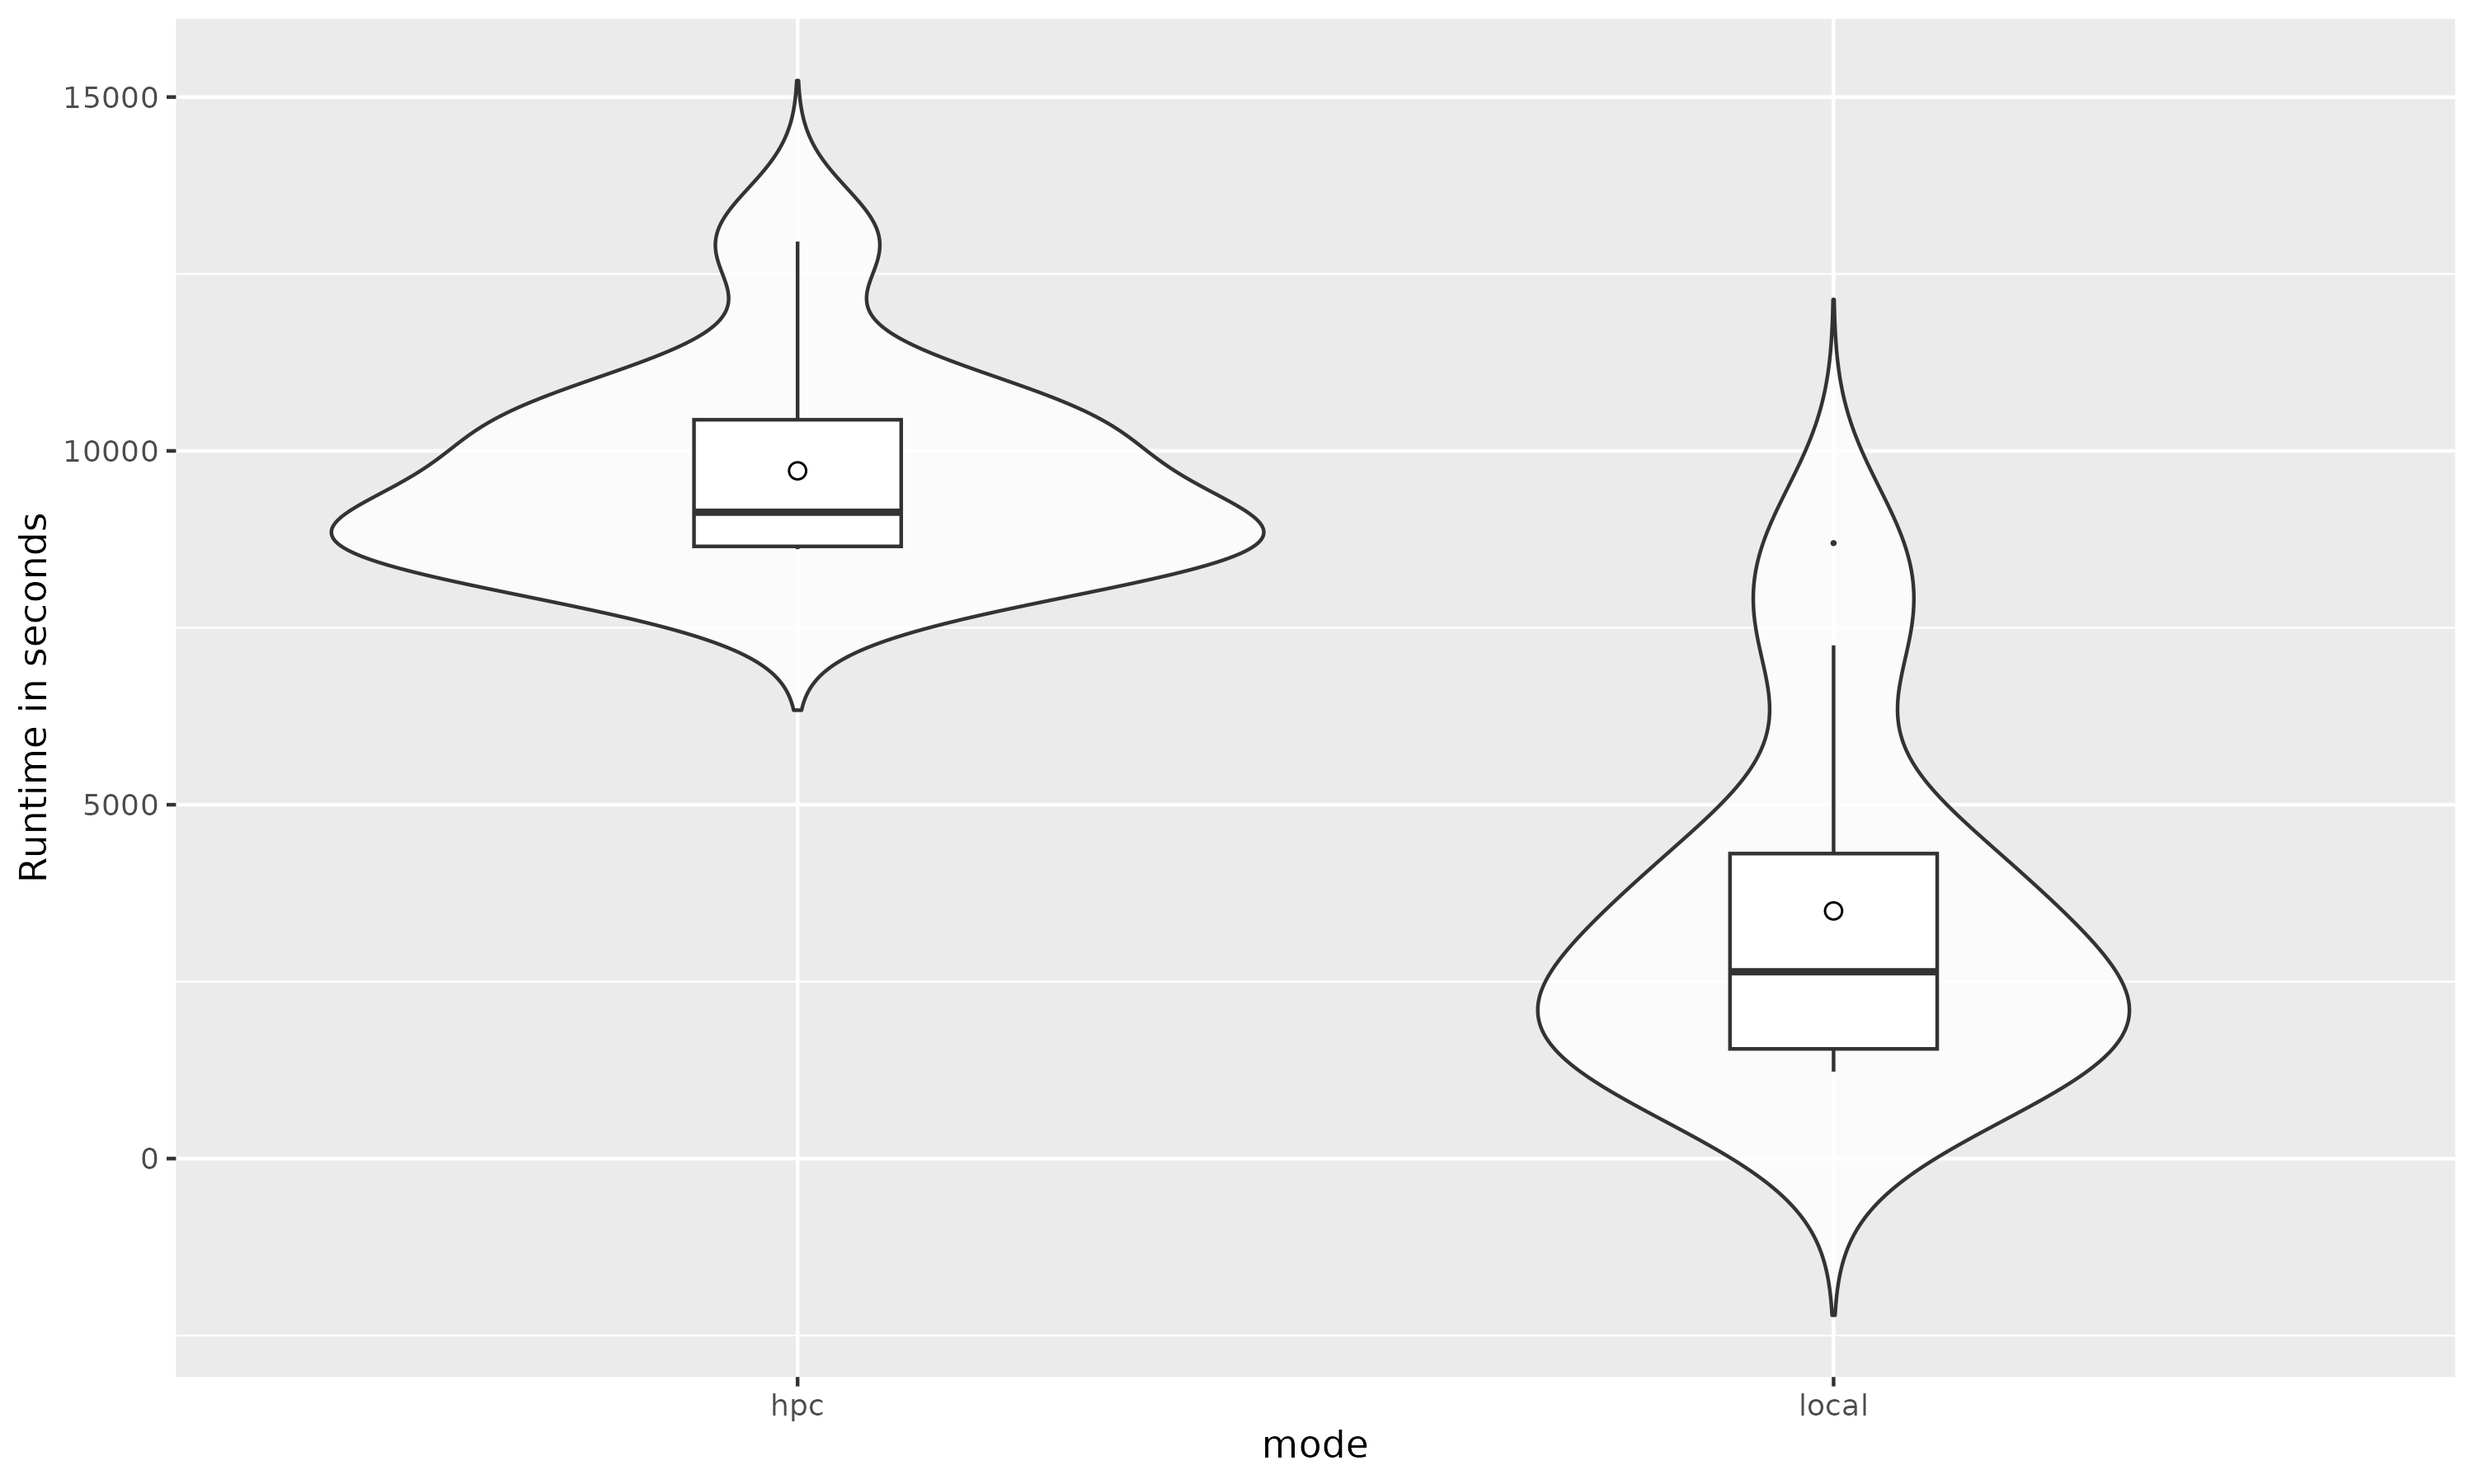
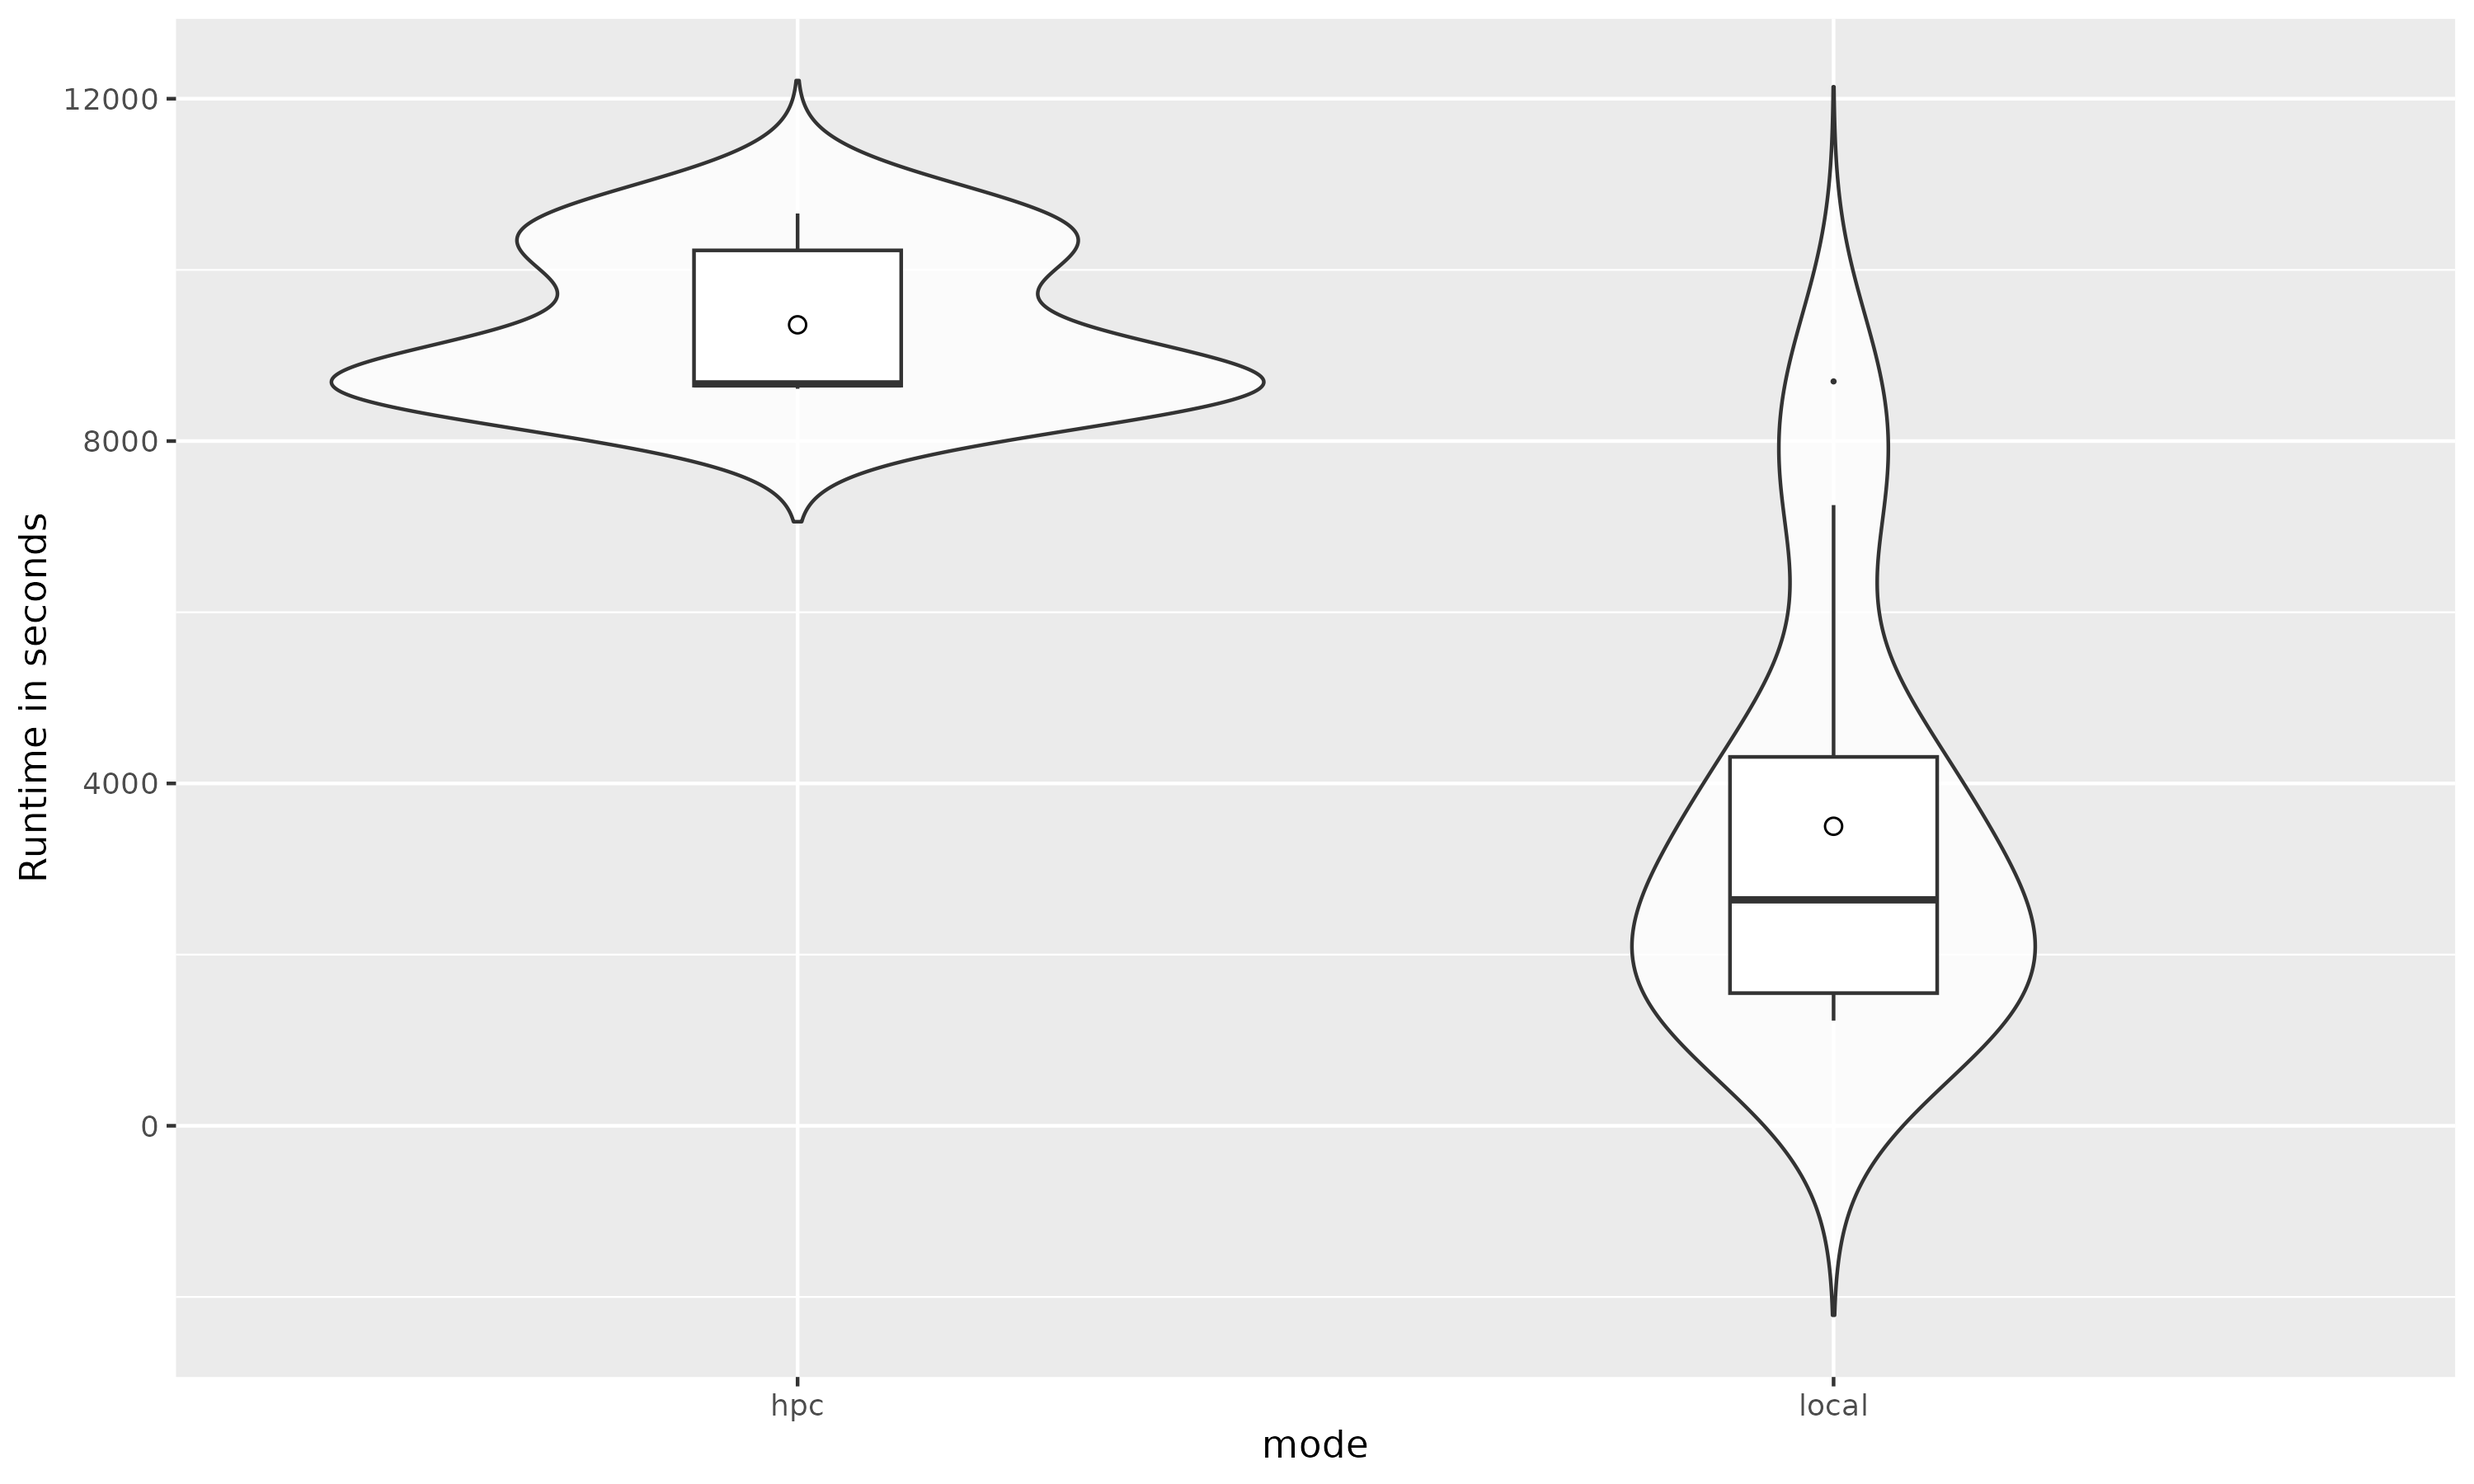
Corrected Friedman test.

diff --git a/tables/summary_memory_hpc_local.tex b/tables/summary_memory_hpc_local.tex
@@ -1,12 +1,12 @@
 % latex table generated in R 4.3.1 by xtable 1.8-4 package
-% Fri Oct 27 10:28:38 2023
+% Fri Oct 27 13:19:55 2023
 \begin{table}[ht]
 \centering
 \begin{tabular}{rlrrrrrrr}
   \hline
  & mode & n & Min. & Max. & Median & Mean & SD & CV \\ 
   \hline
-1 & hpc &  10 & 5670560000.00 & 5682912000.00 & 5672592000.00 & 5675891200.00 & 5068209.17 & 0.09 \\ 
+1 & hpc &   9 & 5670560000.00 & 5682912000.00 & 5672576000.00 & 5675114666.67 & 4702530.38 & 0.08 \\ 
   2 & local &  11 & 9675352000.00 & 193712632000.00 & 50560204000.00 & 71951059636.36 & 67356507125.55 & 93.61 \\ 
    \hline
 \end{tabular}

diff --git a/tables/summary_runtime_hpc_local.tex b/tables/summary_runtime_hpc_local.tex
@@ -1,12 +1,12 @@
 % latex table generated in R 4.3.1 by xtable 1.8-4 package
-% Fri Oct 27 10:28:37 2023
+% Fri Oct 27 13:19:50 2023
 \begin{table}[ht]
 \centering
 \begin{tabular}{rlrrrrrrr}
   \hline
  & mode & n & Min. & Max. & Median & Mean & SD & CV \\ 
   \hline
-1 & hpc &  10 & 8611.00 & 12958.00 & 9133.50 & 9718.40 & 1415.63 & 14.57 \\ 
+1 & hpc &   9 & 8611.00 & 10659.00 & 8668.00 & 9358.44 & 892.68 & 9.54 \\ 
   2 & local &  11 & 1229.00 & 8697.00 & 2640.00 & 3499.45 & 2491.55 & 71.20 \\ 
    \hline
 \end{tabular}

diff --git a/tables/summary_energy_hpc_local.tex b/tables/summary_energy_hpc_local.tex
@@ -1,5 +1,5 @@
 % latex table generated in R 4.3.1 by xtable 1.8-4 package
-% Fri Oct 27 13:14:56 2023
+% Fri Oct 27 13:19:45 2023
 \begin{table}[ht]
 \centering
 \begin{tabular}{rlrrrrrrr}
